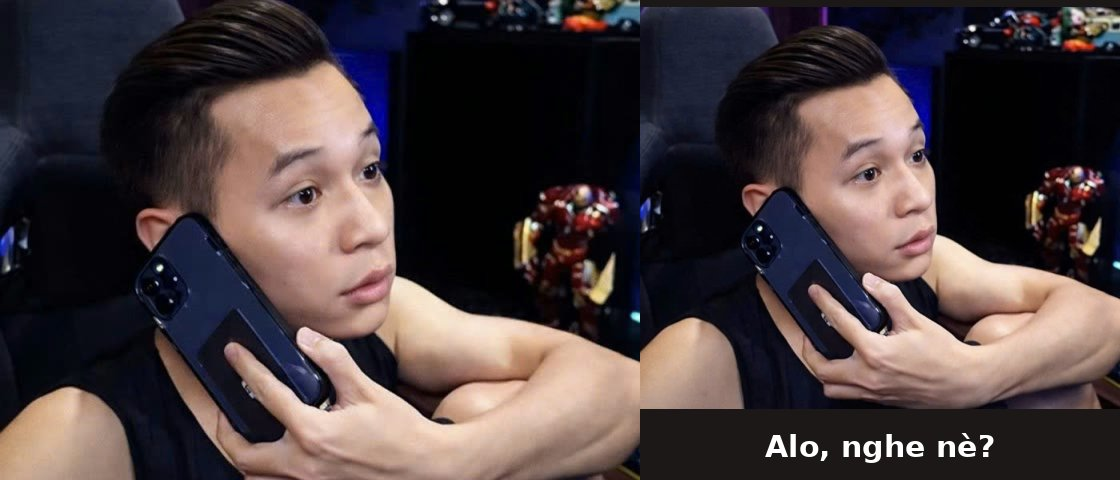
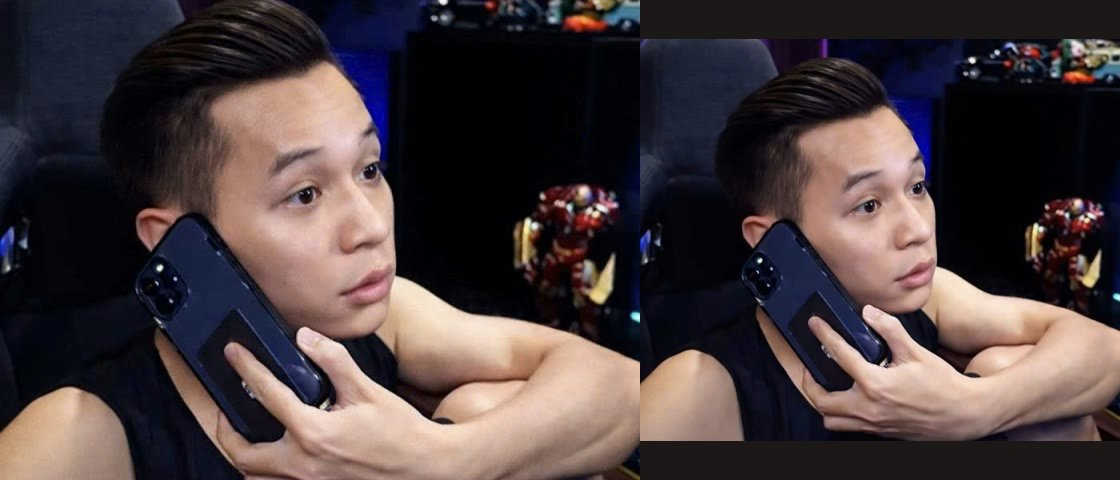
Hide the caption under the meme by default
The meme now fills the whole panel. Press l (or start with --labels) to
show the meme's name underneath again. Demo screenshots re-recorded,
docs updated; version 0.1.1.

Claude-Session: https://claude.ai/code/session_015EDQA1UNqzPJnm5Xs9bFRN

Changed region(s): [[0.5625, 0.0, 1.0, 0.9688]]

diff --git a/memtion/cli.py b/memtion/cli.py
@@ -24,7 +24,7 @@ WINDOW = "Memtion"
 CALIBRATION_FRAMES = 20
 TOAST_SECONDS = 2.0
 
-HELP_KEYS = "q: thoát | p: đổi pack | d: debug | c: hiệu chỉnh mặt | m: lật gương | s: chụp màn hình"
+HELP_KEYS = "q: thoát | p: đổi pack | d: debug | c: hiệu chỉnh mặt | l: chú thích | m: lật gương | s: chụp màn hình"
 
 
 def parse_args(argv: list[str] | None) -> argparse.Namespace:
@@ -37,6 +37,7 @@ def parse_args(argv: list[str] | None) -> argparse.Namespace:
     p.add_argument("--fast", action="store_true", help="dùng pose model 'lite' (nhanh hơn, kém chính xác hơn)")
     p.add_argument("--debug", action="store_true", help="bật overlay debug ngay từ đầu")
     p.add_argument("--no-mirror", action="store_true", help="không lật ảnh camera như gương")
+    p.add_argument("--labels", action="store_true", help="hiện dòng chú thích dưới meme (bật/tắt bằng phím l)")
     p.add_argument("--image", type=Path, help="phân tích một ảnh tĩnh thay vì webcam (in ra điểm số)")
     p.add_argument("--out", type=Path, help="với --image: lưu ảnh kết quả")
     p.add_argument("--models", type=Path, default=DEFAULT_MODEL_DIR, help="thư mục chứa model MediaPipe")
@@ -74,7 +75,7 @@ def run_image(args: argparse.Namespace, config: Config) -> int:
 
     if args.out:
         meme = config.by_id(best_id)
-        panel = MemePanel(480).render(meme.id, meme.file, meme.label)
+        panel = MemePanel(480, show_label=args.labels).render(meme.id, meme.file, meme.label)
         vis = frame.copy()
         draw_landmarks(vis, obs)
         cv2.imwrite(str(args.out), compose(vis, panel))
@@ -118,7 +119,7 @@ def run_camera(args: argparse.Namespace, packs: list[Config], pack_index: int) -
     toast, toast_until = f"Pack: {config.name}", time.perf_counter() + TOAST_SECONDS
     calibration = Calibration()
     calibrating: list | None = None  # observations collected while calibrating
-    panel = MemePanel(480)
+    panel = MemePanel(480, show_label=args.labels)
     fps, last = 0.0, time.perf_counter()
     start = time.perf_counter()
     last_ts = -1
@@ -178,6 +179,8 @@ def run_camera(args: argparse.Namespace, packs: list[Config], pack_index: int) -
                 break
             if key == ord("d"):
                 debug = not debug
+            elif key == ord("l"):
+                panel.show_label = not panel.show_label
             elif key == ord("m"):
                 mirror = not mirror
             elif key == ord("p") and len(packs) > 1:

diff --git a/memtion/render.py b/memtion/render.py
@@ -88,22 +88,24 @@ def fit(img: np.ndarray, width: int, height: int) -> np.ndarray:
 
 
 class MemePanel:
-    """Caches the rendered meme panel (image + caption) per meme id."""
+    """Renders (and caches) the meme side of the window, optionally with its caption."""
 
     LABEL_H = 64
 
-    def __init__(self, size: int):
+    def __init__(self, size: int, show_label: bool = False):
         self.size = size
-        self._cache: dict[tuple[str, int], np.ndarray] = {}
+        self.show_label = show_label
+        self._cache: dict[tuple[str, str, bool], np.ndarray] = {}
 
     def render(self, meme_id: str | None, image_path: Path | None, label: str) -> np.ndarray:
-        key = (str(image_path), label)  # ids can repeat across packs; files don't
+        key = (str(image_path), label, self.show_label)  # ids can repeat across packs; files don't
         if key not in self._cache:
             panel = np.full((self.size, self.size, 3), BG, dtype=np.uint8)
-            body = self.size - self.LABEL_H
+            body = self.size - self.LABEL_H if self.show_label else self.size
             if image_path is not None:
                 panel[:body] = fit(load_image(image_path), self.size, body)
-            draw_text_centered(panel, label, body + self.LABEL_H // 2, size=30)
+            if self.show_label:
+                draw_text_centered(panel, label, body + self.LABEL_H // 2, size=30)
             self._cache[key] = panel
         return self._cache[key]
 

diff --git a/tests/test_render.py b/tests/test_render.py
@@ -1,0 +1,31 @@
+import cv2
+import numpy as np
+
+from memtion.render import BG, MemePanel
+
+
+def _white_image(tmp_path):
+    path = tmp_path / "white.png"
+    cv2.imwrite(str(path), np.full((100, 100, 3), 255, np.uint8))
+    return path
+
+
+def test_no_caption_by_default_image_fills_panel(tmp_path):
+    panel = MemePanel(200).render("m", _white_image(tmp_path), "Hahaha!")
+    assert panel.shape == (200, 200, 3)
+    assert (panel[-1] == 255).all()  # the image reaches the bottom edge, no caption band
+
+
+def test_caption_band_when_enabled(tmp_path):
+    panel = MemePanel(200, show_label=True).render("m", _white_image(tmp_path), "Hahaha!")
+    band = panel[-MemePanel.LABEL_H :]
+    assert (band == BG).mean() > 0.5  # dark band...
+    assert (band > 200).any()  # ...with light caption text on it
+
+
+def test_toggling_caption_does_not_reuse_stale_cache(tmp_path):
+    panel = MemePanel(200)
+    image = _white_image(tmp_path)
+    without = panel.render("m", image, "Hahaha!").copy()
+    panel.show_label = True
+    assert not np.array_equal(without, panel.render("m", image, "Hahaha!"))

diff --git a/memtion/__init__.py b/memtion/__init__.py
@@ -1,3 +1,3 @@
 """Memtion - show the meme that matches your pose and facial expression."""
 
-__version__ = "0.1.0"
+__version__ = "0.1.1"

diff --git a/docs/HUONG_DAN.md b/docs/HUONG_DAN.md
@@ -62,7 +62,7 @@ Cần Python 3.11 trở lên. Xem phần **Cài đặt** trong [README](../READM
 ![Màn hình chính](images/01_shocked.jpg)
 
 - **Bên trái**: hình camera (đã lật như gương, nên giơ tay phải thì hình cũng giơ bên phải).
-- **Bên phải**: meme đang khớp nhất, kèm dòng chú thích ở dưới.
+- **Bên phải**: meme đang khớp nhất. Mặc định chỉ có ảnh, không có chữ; bấm **`l`** nếu muốn hiện tên meme bên dưới.
 - Dòng chữ vàng phía trên camera (ví dụ `Pack: Meme gốc`) chỉ hiện vài giây khi mở app hoặc khi đổi pack.
 
 Meme không đổi ngay lập tức mà đợi bạn giữ tư thế khoảng **nửa giây**, để không nhấp nháy khi bạn lỡ cử động.
@@ -90,6 +90,7 @@ Bấm phím khi cửa sổ Memtion đang được chọn (click vào cửa sổ 
 | `p` | Đổi pack meme (Meme gốc ↔ Blob) |
 | `c` | Hiệu chỉnh mặt trung tính (nên làm mỗi lần đổi chỗ ngồi hoặc ánh sáng) |
 | `d` | Bật/tắt chế độ debug (xem mục 7) |
+| `l` | Bật/tắt tên meme (chú thích) bên dưới ảnh meme, mặc định tắt |
 | `m` | Bật/tắt lật gương |
 | `s` | Chụp màn hình, lưu vào thư mục `Pictures/Memtion` (hoặc `Memtion` trong thư mục nhà) |
 | `q` hoặc `Esc` | Thoát |
@@ -107,7 +108,7 @@ Pack này mạnh về **tư thế tay**. Làm rõ ràng, dứt khoát, để tay
 | ![Giơ hai tay](images/03_break_free.jpg) | ![Tay ôm cổ](images/04_choking.jpg) |
 | **Giơ cả hai tay lên cao quá đầu** → "Tự do rồi!" | **Tay ôm cổ + nhăn mặt** → "Nghẹt thở luôn á" |
 
-Toàn bộ 20 meme:
+Toàn bộ 20 meme (cột "Meme" ghi tên meme, là chữ hiện ra khi bạn bật chú thích bằng phím `l`):
 
 | Làm thế này | Meme |
 |---|---|
@@ -143,6 +144,8 @@ càng tốt) và để mặt đủ sáng.
 |---|---|
 | ![Kinh hoàng](images/05_blob_horror.jpg) | ![Thở oxy](images/06_blob_oxygen.jpg) |
 | Há to miệng + nhướn mày + mở to mắt → "Kinh hoàng!" | Tay đặt ở miệng/cằm, không cười → "Thở oxy gấp" |
+
+Cột "Meme" ghi tên meme (hiện ra khi bật chú thích bằng phím `l`).
 
 | Làm thế này | Meme |
 |---|---|
@@ -245,6 +248,7 @@ Chạy từ terminal (Windows: mở `cmd` trong thư mục `memtion`, gõ `memti
 | `memtion --fast` | Chạy nhanh hơn trên máy yếu |
 | `memtion --debug` | Bật debug ngay từ đầu |
 | `memtion --no-mirror` | Không lật gương |
+| `memtion --labels` | Bật sẵn tên meme bên dưới ảnh |
 | `memtion --image anh.jpg --out ketqua.jpg` | Phân tích một ảnh tĩnh, in điểm số, lưu ảnh kết quả |
 
 ---
@@ -268,7 +272,7 @@ Mỗi pack là một file `.toml` liệt kê ảnh meme và tư thế ứng vớ
    [[meme]]
    id = "cuoi_to"
    file = "cuoi.png"
-   label = "Hahaha"
+   label = "Hahaha"   # tên meme, chỉ hiện khi bật chú thích (phím l)
    when = { smile = 1.0, mouth_open = 1.0 }
 
    [[meme]]

diff --git a/README.md b/README.md
@@ -9,7 +9,7 @@ Mở webcam, theo dõi khuôn mặt + tay + cơ thể, rồi hiện **meme có t
 ```
 ┌──────────────────────┬──────────────────┐
 │   camera (gương)     │      meme        │
-│   + overlay debug    │   "Hahaha!"      │
+│   + overlay debug    │                  │
 └──────────────────────┴──────────────────┘
 ```
 
@@ -64,6 +64,7 @@ memtion            # hoặc: python -m memtion
 | `q` / `Esc` | thoát |
 | `p` | đổi pack meme (Meme gốc ↔ Blob) |
 | `d` | bật/tắt overlay debug (điểm mốc, điểm số từng meme, giá trị đặc trưng) |
+| `l` | bật/tắt tên meme bên dưới ảnh (mặc định tắt; `--labels` để bật sẵn) |
 | `c` | **hiệu chỉnh**: nhìn thẳng với mặt bình thường ~1 giây, app sẽ lấy đó làm mốc "trung tính" |
 | `m` | bật/tắt lật gương |
 | `s` | lưu ảnh chụp màn hình vào `screenshots/` |

diff --git a/packaging/RELEASE_NOTES.md b/packaging/RELEASE_NOTES.md
@@ -27,7 +27,7 @@ tar -xzf Memtion-*-linux-x64.tar.gz && ./memtion/memtion
 ```
 
 ### Phím tắt
-`p` đổi pack · `c` hiệu chỉnh mặt (nên bấm 1 lần khi mới ngồi vào) · `d` debug · `s` chụp màn hình · `q` thoát
+`p` đổi pack · `c` hiệu chỉnh mặt (nên bấm 1 lần khi mới ngồi vào) · `d` debug · `l` hiện/ẩn tên meme · `s` chụp màn hình · `q` thoát
 
 Muốn thêm pack meme riêng: đặt file `.toml` vào `%APPDATA%\memtion\packs` (Windows), `~/Library/Application Support/memtion/packs` (macOS) hoặc `~/.config/memtion/packs` (Linux). Chạy `memtion --list` để xem các pack đang có.
 
